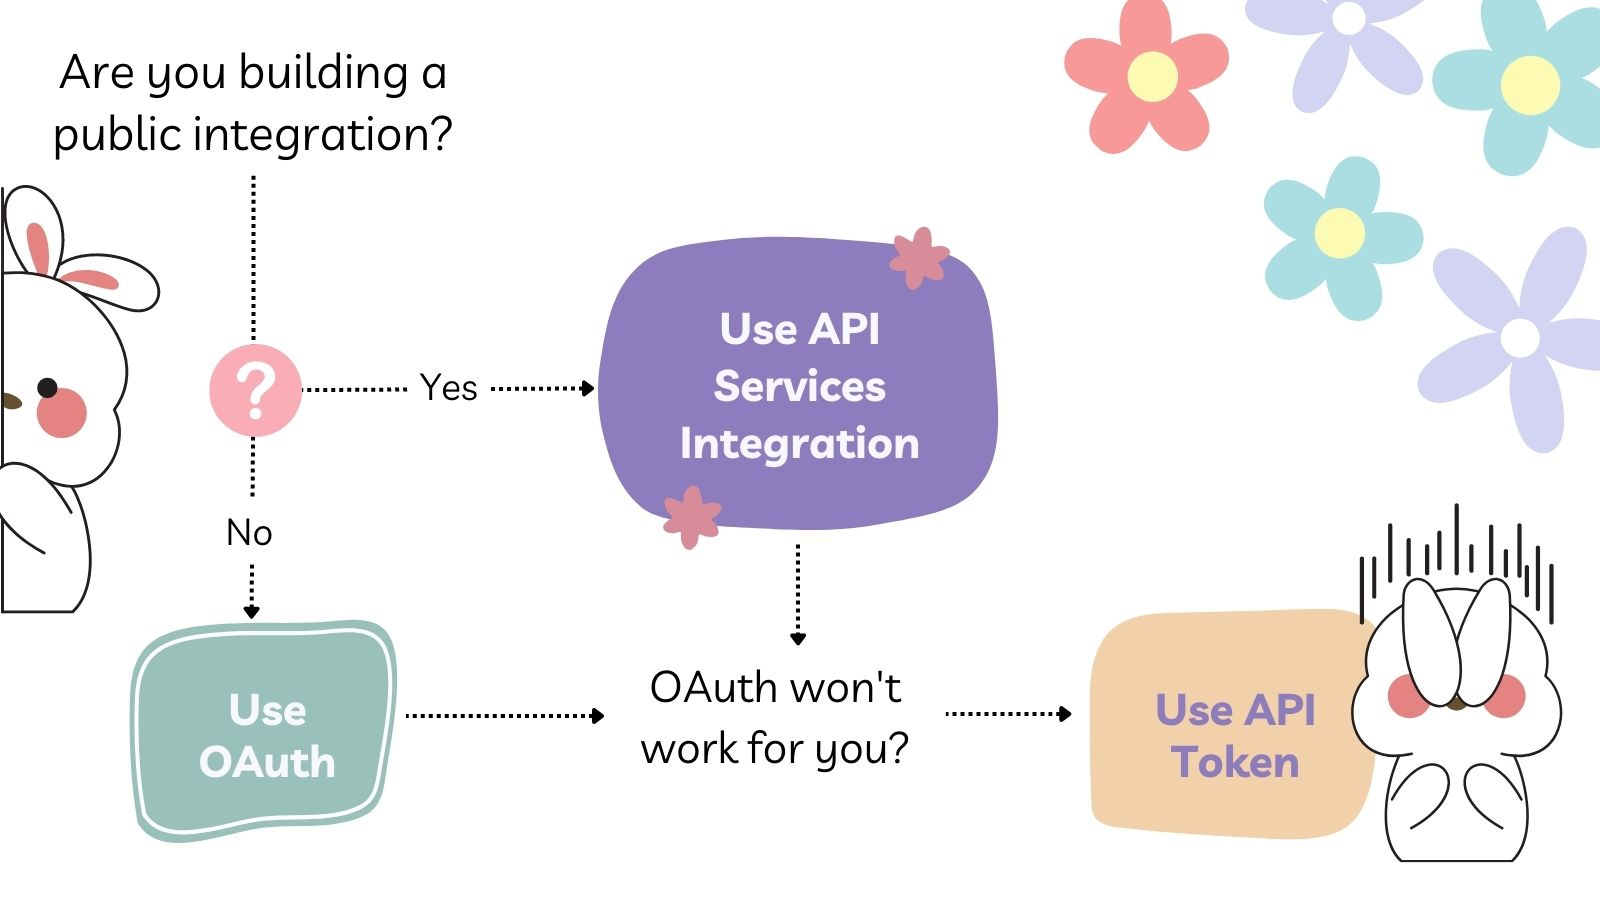
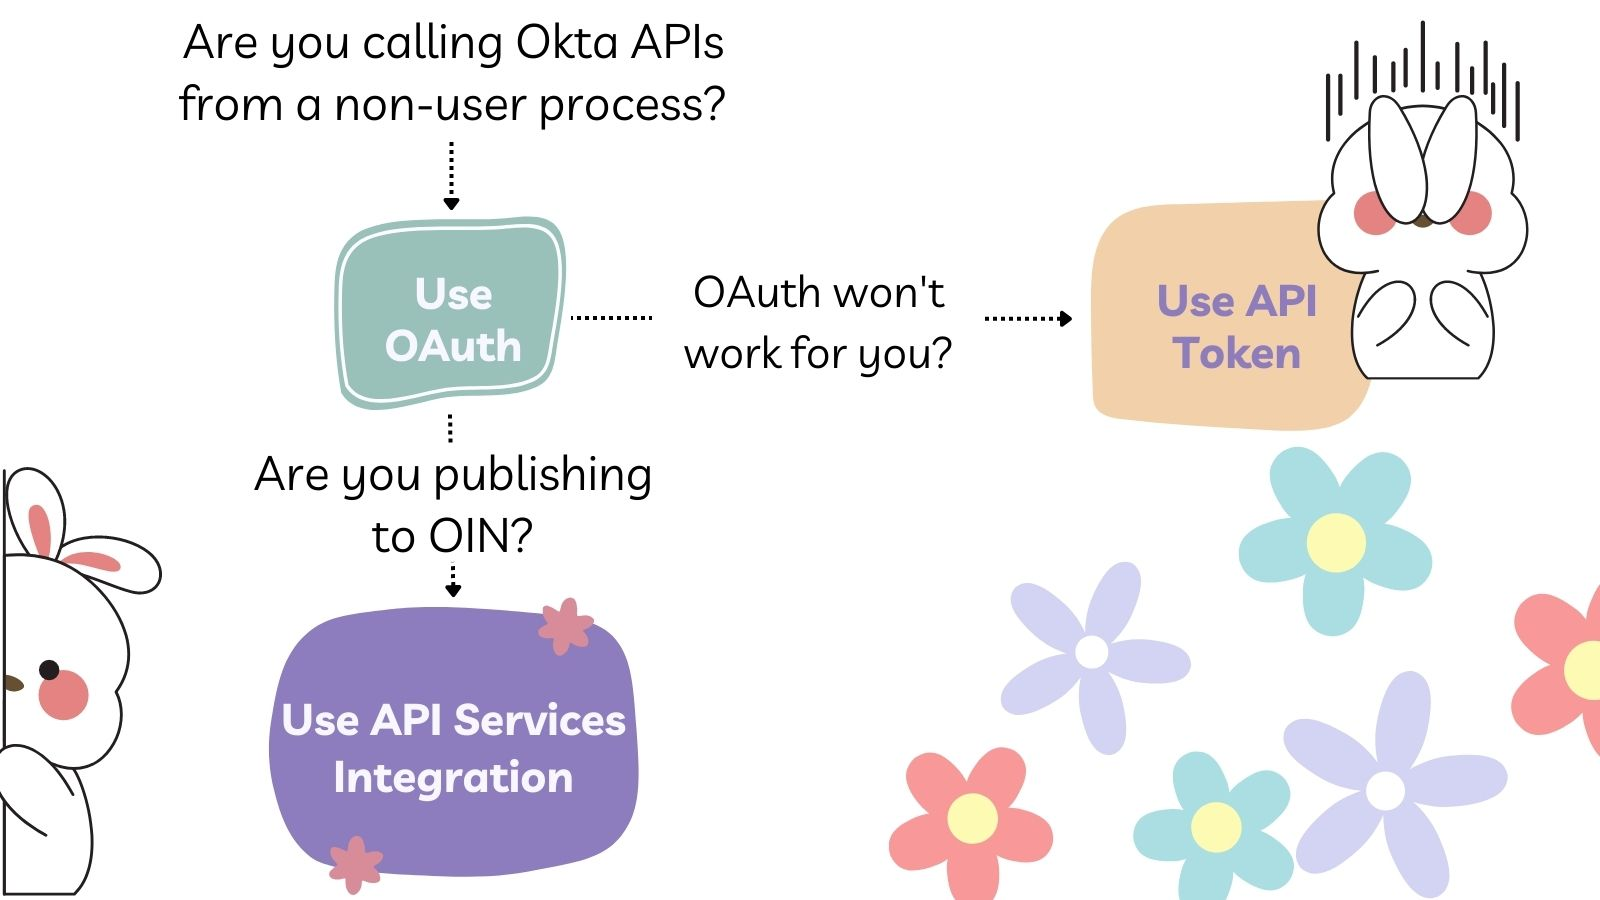
update post and image

diff --git a/_source/_posts/2023-04-19-api-integrations.md b/_source/_posts/2023-04-19-api-integrations.md
@@ -4,7 +4,7 @@ title: "Selecting the Best Authorization for Your API Integrations"
 author: [alisa-duncan, edunham]
 by: advocate
 communities: [security]
-description: "API calls require authorization. How do you select the best authorization mechanism? This post lists out the different authorization options and answers which mechanism is the best!"
+description: "API calls require authorization. How do you select the best authorization mechanism? This post lists the different authorization options and answers which mechanism is the best!"
 tags: [apis, integrations, oauth]
 tweets:
 - "Call your APIs securely using best authorization mechanisms. Read on to find out more!"
@@ -14,18 +14,17 @@ type: awareness
 
 Integrating with an API lets you power up your code by knowing what the API knows and doing what the API can do. The catch is that most APIs can't and shouldn't let just anybody access your important resources. Just as humans log in to access resources, programs accessing APIs must obtain proper authorization. 
 
-Your application can use three types of authorization mechanisms when calling Okta APIs from your Okta integration, each with its pros and cons:
+Your application can use two types of authorization mechanisms when calling Okta APIs from your Okta integration, each with its pros and cons:
   1. API Tokens
-  2. OAuth
-  3. API Integration Services
+  2. OAuth 2.0
 
-Let's better understand the three types, how they work, and when to use them.
+Let's better understand the two types, how they work, and when to use them.
 
 {% include toc.md %}
 
 ## API Tokens
 
-If you've connected with APIs before, you've probably copied a token and pasted it into the Authorization header of your HTTP request. Token authorization has several notable drawbacks for authorizing, including when connecting to Okta APIs. 
+If you've connected with APIs before, you've probably copied a token and pasted it into the Authorization header of your HTTP request. Token authorization has several notable drawbacks, including when connecting to Okta APIs. 
 
 You can create API tokens from the Okta Admin Console. The Admin Console only shows you the token value upon creation, so you'll need to capture the value and securely persist it in a credentials manager. When you use the API token, you'll add it to the Authorization header of the call using the proprietary `SSWS` scheme. 
 
@@ -40,7 +39,7 @@ When an Okta user creates an API token, it has all of the user's permissions, wh
   * The automation may break if their permissions are reduced, or the user leaves the organization.
   * If the user's permissions are increased, the automation may silently gain the ability to cause unexpected problems if it has a bug.
 
-All Okta API tokens automatically expire after being unused for 30 days to mitigate the security risks of old tokens falling into the wrong hands. A user can revoke tokens at any time from the Admin Console, and deleting no longer needed tokens is a good idea.
+All Okta API tokens automatically expire after being unused for 30 days to mitigate the security risks of old tokens falling into the wrong hands. A user can revoke tokens anytime from the Admin Console, and deleting no longer needed tokens is a good idea.
 
 **Considerations for using API tokens**
 
@@ -50,7 +49,7 @@ It can be tempting to create a service account in Okta and use an API token from
 
 Due to these constraints, API tokens are never the preferred authorization method for Okta's APIs. If you're ever in a situation where you "have to" use API tokens in production because OAuth or a service integration won't work, we'd love to hear about it! Let us know in the comments below, or discuss the challenges with your Okta representative. 
 
-## OAuth Client Credentials
+## OAuth 2.0 Client Credentials
 
 OAuth has a standard flow for machine-to-machine communication called Client Credentials, the preferred way for processes without user input to communicate to Okta APIs. Using OAuth mechanisms enables you to use a well-known standardized format with fantastic support in libraries, frameworks, and languages of your choice. You can create an API Services application in the Okta Admin Console or use the [Okta CLI](https://cli.okta.com/).
 
@@ -58,7 +57,7 @@ If you haven't used OAuth Client Credentials before, a quick overview is as foll
   1. You'll create the Okta API Services application and configure the Okta API Scopes you want this application to have. When you make the Okta application, you'll receive a Client ID and a Client Secret to add to your Okta configuration in your program.
   2. Your program calls the authorization server's token endpoint to exchange the Client ID and Client Secret for an access token. The access token contains the Okta API Scopes allowed. There may be [Okta SDKs](https://developer.okta.com/code/) that help support this token call for you, depending on your language and framework.
   > **Note**
-  > If you have a custom authorization server, such as when you use a developer preview org, then you'll have to send a signed JSON Web Token (JWT) using a JSON Web Key Set (JWKS). Read more about how to do this on the [Implement OAuth for Okta](https://developer.okta.com/docs/guides/implement-oauth-for-okta-serviceapp/main/) developer documentation.
+  > If you have a custom authorization server, such as when using a Okta Developer Edition org, you'll have to use signed JSON Web Token (JWT) using a JSON Web Key Set (JWKS). Read more about how to do this on the [Implement OAuth for Okta](https://developer.okta.com/docs/guides/implement-oauth-for-okta-serviceapp/main/) developer documentation.
   3. When you use the access token to call Okta APIs, you'll add the token to the Authorization header using the `Bearer` scheme.
 
 ```http
@@ -68,35 +67,28 @@ Accept: application/json
 Host: dev-1234567.okta.com
 ```
 
-**Considerations with using OAuth for integrations**
+**Considerations with using OAuth**
 
-The preferred method is using OAuth to call Okta APIs from private integrations or internal processes. It's more secure, and using widely available standards makes the calling process require less manual code. You'll configure the scopes you want the process to access, which aren't tied to a specific user. But it is a 2-step process to make the API call as first you'll need to get the access token.
+The preferred method is using OAuth to call Okta APIs. It's more secure, and using widely available standards makes the calling process require less manual code. You'll configure the scopes you want the process to access, which aren't tied to a specific user. But it is a 2-step process to make the API call as first you'll need to get the access token. 
+ 
 
-But, if you're planning on creating an Okta integration publicly available on the [Okta Integration Network (OIN)](https://developer.okta.com/docs/guides/okta-integration-network/), you'll want to a better mechanism for making your integration application more discoverable to potential customers. When you have a public integration, you delegate scope configuration to the consumer. There's a temptation to either allow too much access or, conversely, limit access, causing frustrations that your integration needs fixes to work as intended.  
+**When to use OAuth authorization**
 
-**When to use OAuth authorization for integrations**
+You should use OAuth as the preferred authorization mechanism for communication with Okta APIs, including machine-to-machine communications. A widely accepted industry standard like OAuth affords the most security and scope flexibility.
 
-You should use OAuth as the preferred authorization mechanism. Use OAuth when you are creating an internal integration process.
+But, if you create an API Service application in Okta to share it outside of your organization, you delegate the scope configuration to the customer as part of their process of setting up an API Service application. There's a temptation for potential customers to either allow too much access or, conversely, limit access, causing frustrations that your integration needs fixes to work as intended. 
 
-## API Integration Services
+**Use API Integration Services**
 
-API Integration Services have all of the advantages of OAuth authorization, with the added ability for discoverability for public integrations! You'll use the standard OAuth Client Credentials flow, which means you can use libraries that support it for your framework/language. Plus, you'll define the scopes you need to ensure you have the ones required for running your integration and provide transparent assurance to consumers on the permissions you require and those you don't require. When they understand the access levels, consumers may feel comfortable adding integrations to their organization.
+API Integration Services creates API integration applications using OAuth but with more powers! Your API Integration becomes more discoverable to potential customers with improved handling for scopes. You can submit your integration to the [Okta Integration Network (OIN)](https://developer.okta.com/docs/guides/okta-integration-network/), which makes your integration available in the OIN catalog. Potential customers can find your integration to add to their Okta org. Plus, as part of the submission process, you define the scopes your integration needs beforehand. Customers can see those scopes in the OIN catalog. Transparency in the required resources will help them feel more comfortable using your integration.
 
-You'll create the machine-to-machine process, test it locally, and then submit the integration to the OIN for public consumption. Okta customer administrators will see all available API Service Integrations in the Okta Admin Console. They can find the integration they want to add, review the requested scopes, and authorize it. They receive a Client ID and Client Secret that they provide to you, the integration provider, along with the Okta Domain so you can make the calls to retrieve the access token.
-
-**Considerations with using API Integration Services**
-
-You'll use standard OAuth flows, so you'll have a secure authorization mechanism, but it is a 2-step process to get the access token. You'll also need to define the scopes you need beforehand, which will help customers feel more comfortable using your integration.
-
-**When to use API Integration Services**
-
-Use API Integration Services when you create machine-to-machine integration for general use within the OIN. You'll have security, discoverability, and clarity for the users when you use this approach.
+When you want to create an API Integration Service, you'll create a test integration as part of the submission form to trial locally before you finalize the submission.
 
 ## Decide which API authorization mechanism to use
 
-When calling Okta APIs, we recommend using API Integration Services first, then OAuth, and finally API Tokens as shown in the following flowchart:
+When calling Okta APIs, we recommend using OAuth 2.0, and API Integrations Services if you create an API Integration for the OIN. If you have limitations using OAuth 2.0 for your use case, use API Tokens.
 
-{% img blog/api-integrations/flowchart.jpg alt:"If you are building a public integration, use API Services Integration, otherwise use OAuth. Lastly use an API Token if there are no other options." width:"800" %}{: .center-image }
+{% img blog/api-integrations/flowchart.jpg alt:"Flowchart describing first using OAuth, then using  API Services Integration in cases of OIN application. Lastly use an API Token if there are no other options." width:"800" %}{: .center-image }
 
 ## Learn more about connecting to Okta APIs using OAuth Client Credentials
 
@@ -108,5 +100,6 @@ If you found this post interesting, you might find these resources useful:
 * [How to Use Client Credentials Flow with Spring Security](/blog/2021/05/05/client-credentials-spring-security)
 * [Implement authorization by grant type](https://developer.okta.com/docs/guides/implement-grant-type/clientcreds/main/)
 * [Build an API service integration](https://developer.okta.com/docs/guides/build-api-integration/main/)
+* [API Integrations in the OIN](https://developer.okta.com/docs/guides/oin-api-service-overview/)
 
-Don't forget to follow us on [Twitter](https://twitter.com/oktadev) and subscribe to our [YouTube channel](https://www.youtube.com/c/OktaDev/) for more great content. We'd also love to hear from you! Please comment below if you have any questions or want to share what topic you'd like to see next. Also, feel free to share your experience connecting to Okta APIs. We want to ensure our developers have the necessary resources and good experience integrating with Okta!
+Remember to follow us on [Twitter](https://twitter.com/oktadev) and subscribe to our [YouTube channel](https://www.youtube.com/c/OktaDev/) for more great content. We'd also love to hear from you! Please comment below if you have any questions or want to share what topic you'd like to see next. Also, feel free to share your experience connecting to Okta APIs. We want to ensure our developers have the necessary resources and good experience integrating with Okta!
